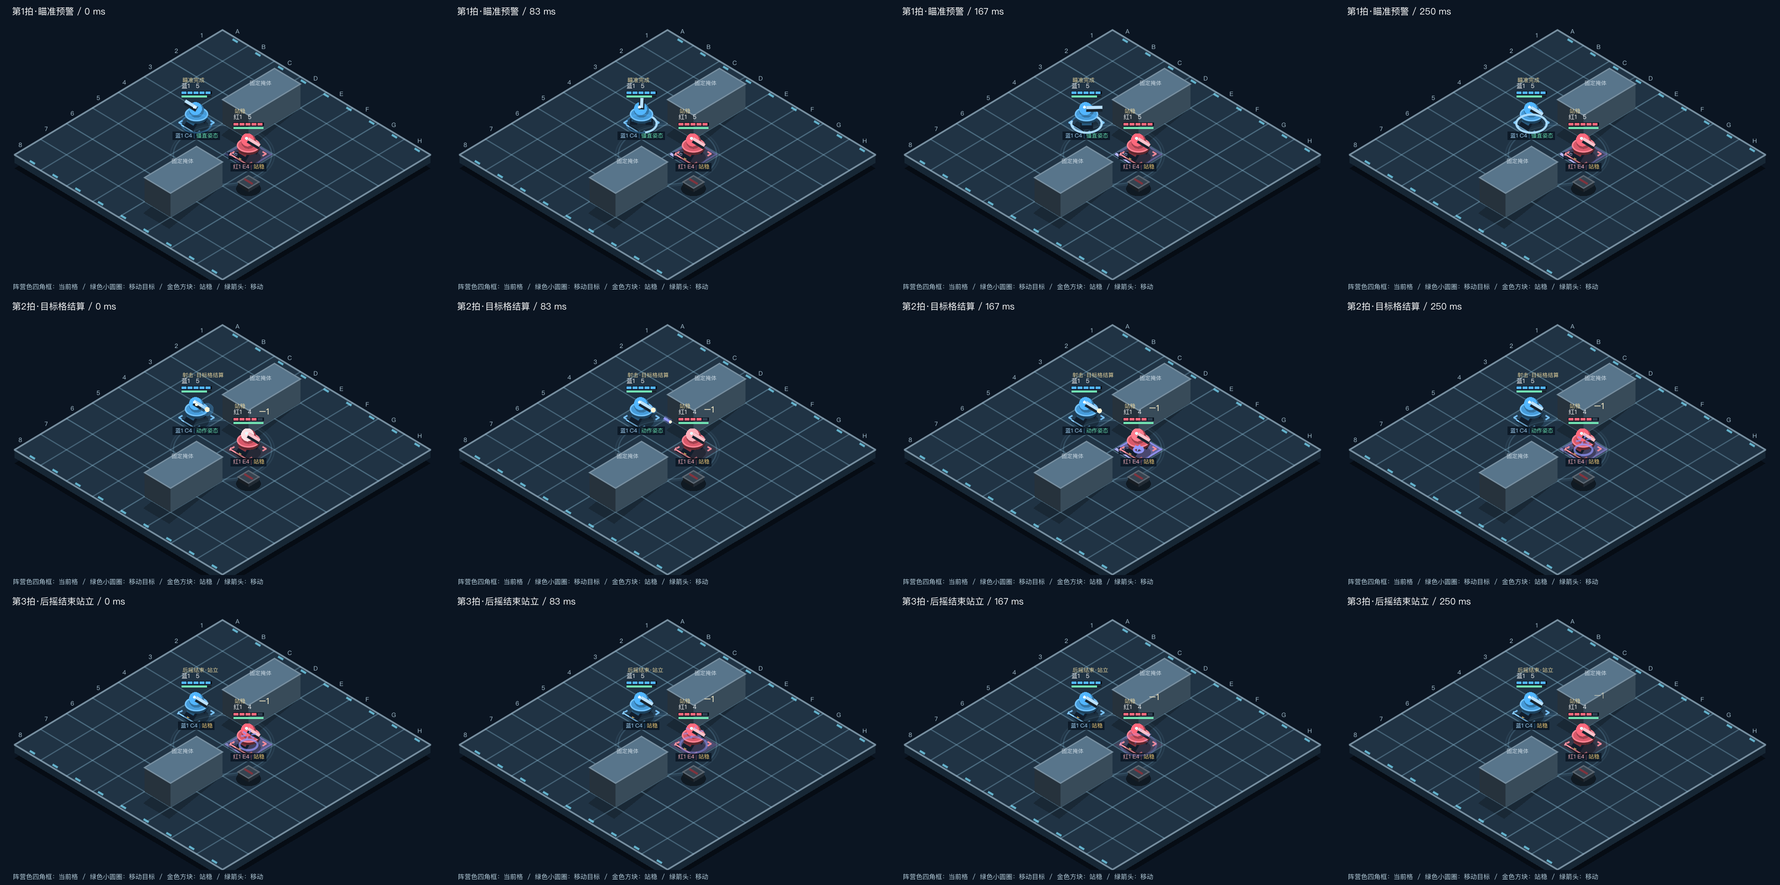
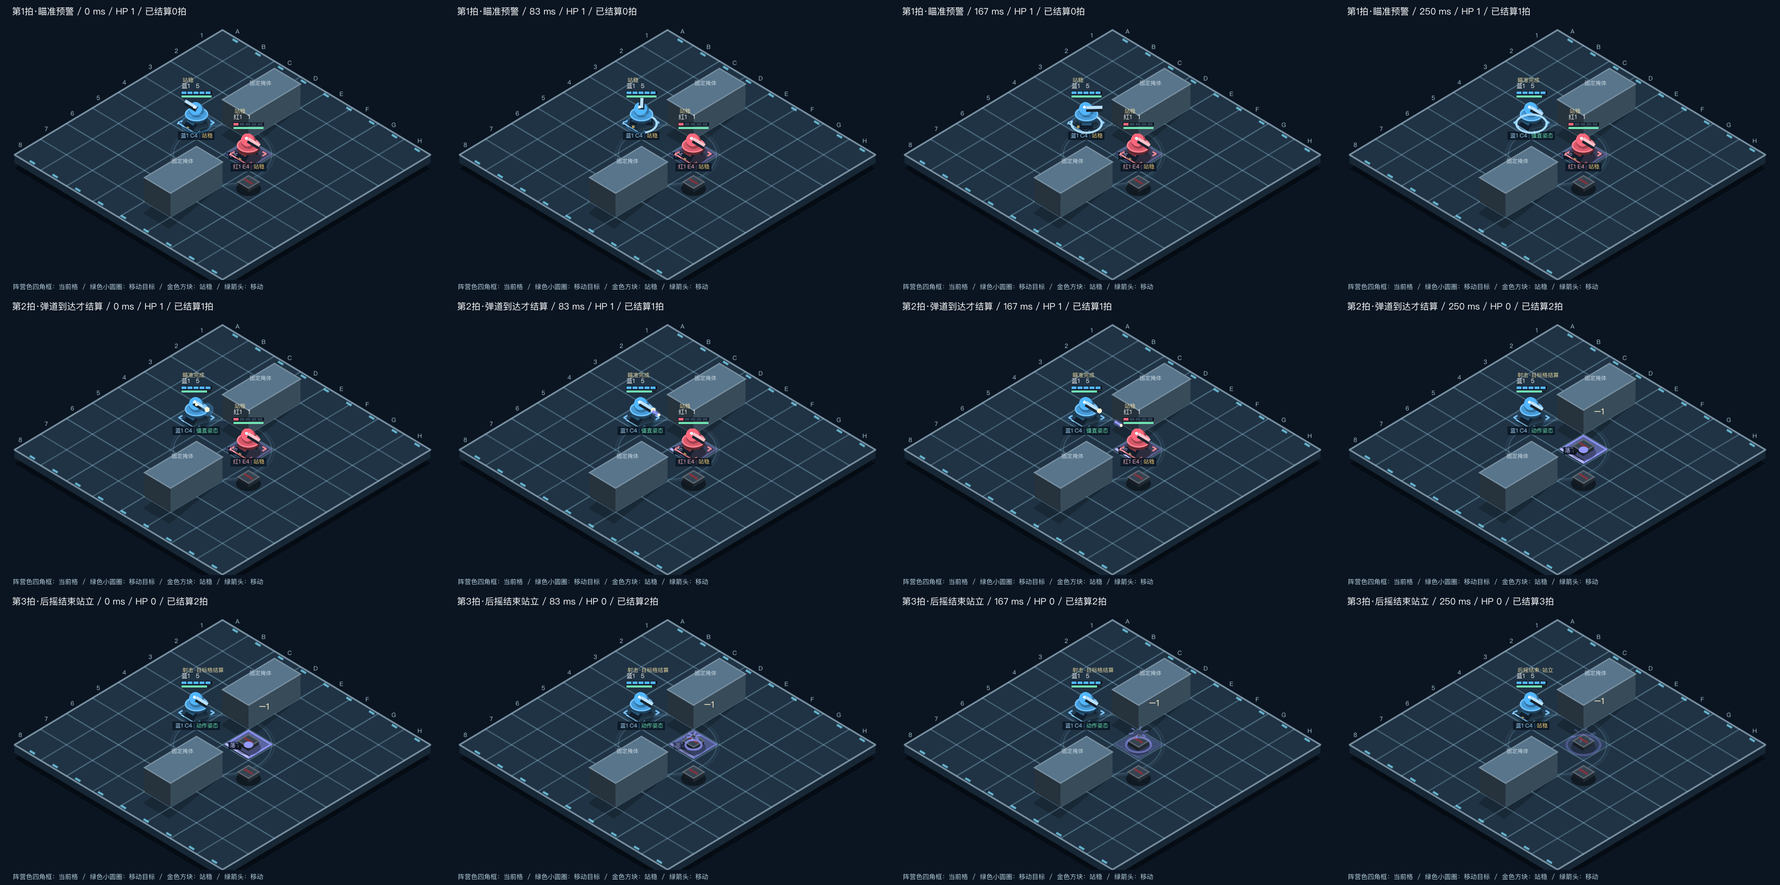
单拍先播放再交点结算，修复致命弹道到达前提前死亡

diff --git a/docs/beat-combat.md b/docs/beat-combat.md
@@ -42,6 +42,12 @@
 
 AP按优先级选中一次动作，选中拍执行其第一拍，随后完成该动作。每个bot每拍最多选中一条AP或PP；动作结束拍不会再起手另一动作。
 
+### 单拍播放与结算
+
+“下一拍 / N”启动下一段连续演出，使用只读轨迹预览；此时拍数、真实格子、血量与姿态仍停留在上一交点。完整播放结束后才调用规则引擎结算，并暂停在新交点，显示新姿态与下一拍计划。Shift+N连续播放四段，逐段结算，在第四个交点暂停；重复按N不积压动作。
+
+普攻弹道覆盖整个击发段，在段末到达锁定格后才扣血、处理死亡与胜负。飞行期间目标继续显示原血量和身体，暂停交点保留命中闪光。连续播放也使用同一播放后结算流程，暂停冻结逻辑及视觉时钟，恢复保留段内进度。预警从瞄准段开始就显示，不需要先提交这一拍的结算。
+
 ### 线段与交点
 
 一拍是有时长的动作线段，姿态在交点上约束下一段动作。交点没有额外时间：所有移动先完成，随后按新格子判定攻击、统一扣血与处理死亡，再发布新姿态，最后用同一份结算后快照按优先级决定下一拍。治疗/护盾等本段支援在伤害结算前生效。
@@ -70,7 +76,7 @@ AP按优先级选中一次动作，选中拍执行其第一拍，随后完成该
 - 非站立时先站立1拍，因此总共4拍；重复射击不重复站立，每次动作占3拍。
 - 取消所有技能的公共CD，不在动作后额外插入空白拍。普攻独立CD仍为6拍，从第2拍实际开火开始，与后摇重叠。资源足够、目标合法时，时间2开火后至时间8独立CD归零，下一次瞄准占8→9、击发占9→10；其它已就绪技能可在时间3后摇结束后立即开始，占3→4。
 - CD未就绪时可以执行其它合法规则，但不能跳过站立要求开枪；精力不足也不能射击。
-- 普攻不再追加第3拍飞行命中；画面在第2拍内演出短弹道，随后显示落点闪光。动画不修改结算格或命中拍。
+- 普攻不追加第3拍飞行命中；弹道连续覆盖第2拍，到段末交点才扣血并显示落点闪光。动画不修改结算格或命中拍。
 
 
 | 攻击 | 前摇 | 释放硬直 | 后摇 | 生效方式 |
@@ -170,7 +176,7 @@ PP侧闪在交点结算完成后、选择下一段动作时检查：
 
 每个存活bot的实际逻辑格显示阵营色四角框、淡底色、近侧姿态边与脚前固定名牌，例如“蓝1 D4 / 站稳”“红1 E4 / 移动·右”。四角框沿用原绿色移动目标框的造型，但改为蓝红阵营色，用于区分当前位置与绿色圆圈目标。站稳使用完整底边、两端短脚和金色小方块；移动使用两端留空的短底边与绿色方向箭头，不画四边虚线。姿态同时以形状、图标和文字区分。地面标记、名牌、连线及攻击预警均在角色和掩体之前绘制，允许被自然遮挡，避免盖住角色。标记从 `cell / pose / trend` 生成，每拍直接更新，不跟随身体插值。身体动画偏离格心时有细线连回逻辑格，机甲上方另显示当前动作阶段。碰撞时共同占格的bot分别显示名牌与错层角框，不覆盖成单个标记；死亡后撤去位置标记。关闭攻击范围预告不隐藏位置和姿态。
 
-移动姿态不等于这一拍正在跨格：在该姿态下原地攻击或等待时仍显示“移动·方向”；实际动作看机甲上方阶段和位移引导。右侧格子、血量和日志也直接显示本拍结果；身体正在演出这次已结算的变化，因此可能暂时处在两个格子之间。演出中的坐标和弹丸不会参与命中计算。暂停冻结动画；单拍按钮只结算一拍，再播放完该拍的动作。倍速同时缩放节拍间隔和演出时长。
+移动姿态不等于这一拍正在跨格：在该姿态下原地攻击或等待时仍显示“移动·方向”；实际动作看机甲上方阶段和位移引导。右侧格子、血量和日志在整段播放完成、到达交点后才显示新结果；演出途中保留上一交点状态。演出坐标和弹丸不参与格子命中计算。暂停冻结动画；单拍按钮先完整播放一段，再结算并停在交点，不会先扣血后补播。倍速同时缩放节拍间隔和演出时长。
 
 当前为规则与演出原型：固定整格掩体、全局可见、没有连续击退或身体碰撞。手动大招也按格预览并在合法节拍起手，需要站稳和70精力；前摇侧闪取消会返还充能。采用5血小整数数值，保留精力、共享12条规则、布阵保留和九种预设。这些是第一版数值，尚未完成强度平衡；240拍超时平局，不用总血量掩盖战斗中的僵持。
 

diff --git a/README.md b/README.md
@@ -8,7 +8,7 @@
 
 分支 `beat-grid-combat` 默认运行 `beat_arena.tscn`：普通移动2拍一格，移动硬直期间只能由PP侧闪取消；侧闪1拍一格。同向续走无需站立，换向前自动站立1拍；最后停步站立也耗1拍；减速沿用额外1拍的效果。高级技能需站稳，技能范围按整数格锁定，碰撞拍统一结算并在下一拍弹回。默认新基准1倍速每拍0.5秒，0.5倍每拍1秒，2倍每拍0.25秒；N单拍、Shift+N四拍。
 
-判定离散、动画连续：机甲的位置、转向、侧闪、碰撞弹回和攻击特效逐帧演出，命中仍使用整拍格子。暂停冻结动画，单拍会播放完该拍动作。`--beat-animation-preview` 生成跨格/碰撞/弹回的连续画面对照图。
+判定离散、动画连续：机甲的位置、转向、侧闪、碰撞弹回和攻击特效逐帧演出，命中仍使用整拍格子。暂停冻结动画。“下一拍 / N”先完整播放，再在交点更新格子、血量与姿态并暂停；子弹到达前目标不会提前掉血或消失。Shift+N逐段播放并结算四拍。`--beat-animation-preview` 生成跨格/碰撞/弹回的连续画面对照图。
 
 移动跨拍衔接速度，普通移动2拍进入下一格（逻辑占格在第2拍改变），直走不断速，站立时利用半拍的视觉制动距离单调减速到格心，转向先停稳再起步；逻辑与演出共享时间累积器。绿色虚线和目标小圆圈显示已选移动，金色引导显示碰撞弹回；关闭攻击范围预告仍显示位移引导。
 
